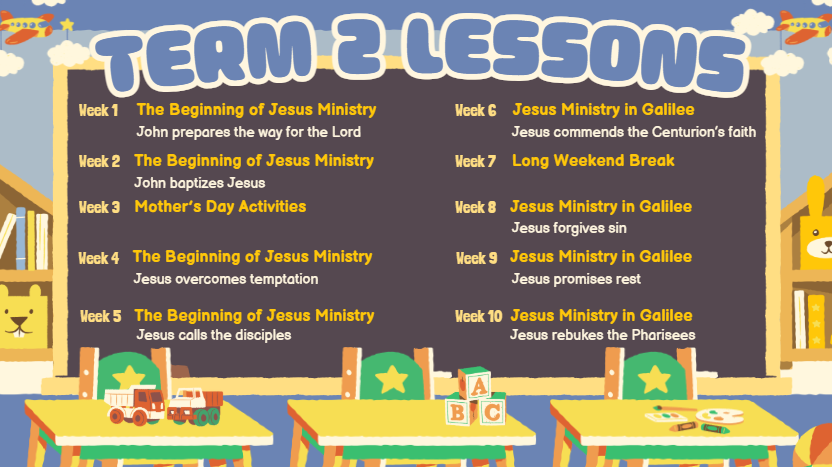
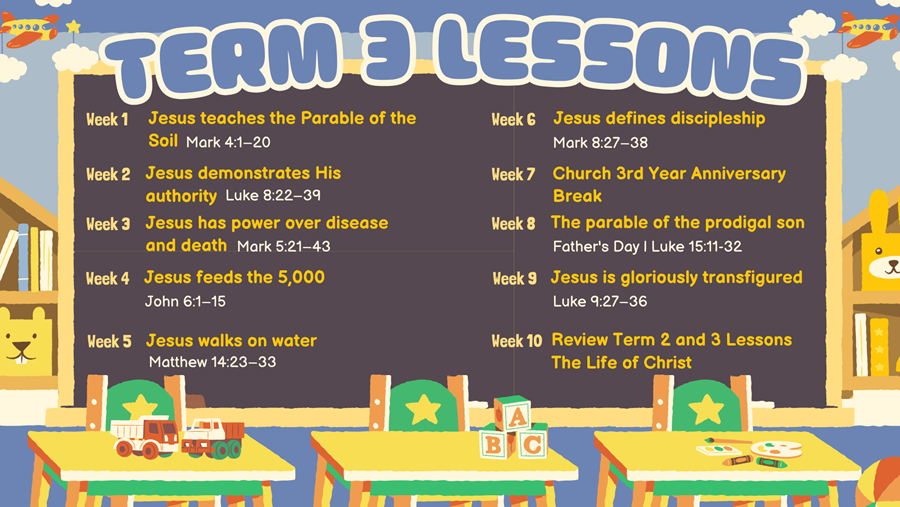
Update entrance info, social share image, Sunday School Term 3, anniversary announcement, and Food Bank Term 4 dates
Remove all references to the temporary 2026 Torquay Way entrance now
that the main Ballan Rd entrance has reopened; replace the og:image/
twitter:image share preview with a proper 1200x630 WynLife logo card;
swap the Sunday School lessons image and copy for Term 3; add the
WynLife 3rd Anniversary (30 Aug) announcement in place of the old
entrance notice; update the Food Bank flyer with Term 4 dates.

Claude-Session: https://claude.ai/code/session_01XZuSdtZm14ffq3G6qbHjXg

Changed region(s): [[0.0, 0.0, 1.0, 1.0], [0.0, 0.03, 0.0938, 0.1199]]

diff --git a/index.html b/index.html
@@ -26,15 +26,15 @@ permalink: /
   <meta property="og:url"         content="https://www.wynlife.com.au/">
   <meta property="og:title"       content="WynLife Church — Wyndham Vale, Melbourne">
   <meta property="og:description" content="A vibrant, multicultural Christian community in Melbourne's west. Join us Sundays at 10AM — 208 Ballan Rd, Wyndham Vale VIC 3024.">
-  <meta property="og:image"       content="https://www.wynlife.com.au/assets/about/head_pastor.JPG">
+  <meta property="og:image"       content="https://www.wynlife.com.au/assets/shared/social_share.png">
   <meta property="og:image:width" content="1200">
-  <meta property="og:image:height"content="800">
-  <meta property="og:image:alt"   content="Ps Jimm and Pynqi Gorgonia — WynLife Church">
+  <meta property="og:image:height"content="630">
+  <meta property="og:image:alt"   content="WynLife Church">
   <!-- Twitter / X card -->
   <meta name="twitter:card"        content="summary_large_image">
   <meta name="twitter:title"       content="WynLife Church — Wyndham Vale, Melbourne">
   <meta name="twitter:description" content="A vibrant, multicultural Christian community in Melbourne's west. Join us Sundays at 10AM — 208 Ballan Rd, Wyndham Vale VIC 3024.">
-  <meta name="twitter:image"       content="https://www.wynlife.com.au/assets/about/head_pastor.JPG">
+  <meta name="twitter:image"       content="https://www.wynlife.com.au/assets/shared/social_share.png">
   <!-- WhatsApp / iMessage description -->
   <meta name="description"         content="A vibrant, multicultural Christian community in Melbourne's west. Join us Sundays at 10AM — 208 Ballan Rd, Wyndham Vale VIC 3024.">
 </head>
@@ -226,11 +226,6 @@ permalink: /
     <div class="service-detail">WynLife Centre</div>
   </div>
   <div class="service-item">
-    <div class="service-label">2026 Entrance</div>
-    <div class="service-value">Via Torquay Way</div>
-    <div class="service-detail">Turn right at Rosedale Place</div>
-  </div>
-  <div class="service-item">
     <div class="service-label">Phone</div>
     <div class="service-value">+61 457 697 354</div>
     <div class="service-detail">info@wynlife.com.au</div>
@@ -326,7 +321,7 @@ permalink: /
       </div>
       <div>
         <img src="/assets/home/sunday_school_curriculum.PNG" alt="Generations of Grace Sunday School Curriculum" class="photo-contain" style="margin-bottom:16px;">
-        <img src="/assets/home/sunday_school_lessons.PNG" alt="Sunday School Term 1 Lessons" class="photo-contain">
+        <img src="/assets/home/sunday_school_lessons.PNG" alt="Sunday School Term 3 Lessons" class="photo-contain">
       </div>
     </div>
   </div>
@@ -386,11 +381,11 @@ permalink: /
         </div>
       </div>
       <div class="card">
-        <div class="card-img-contain"><img src="/assets/whats-on/entrance_update.png" alt="New Entrance"></div>
+        <div class="card-img-contain"><img src="/assets/whats-on/anniversary_3rd.png" alt="WynLife 3rd Anniversary"></div>
         <div class="card-body">
-          <div class="card-tag">&#128205; Important Notice</div>
-          <div class="card-title">2026 Entrance Update</div>
-          <div class="card-text">Our church entrance has changed for 2026. The old entrance is now closed. Please access via McGrath Road, then turn into Torquay Way and turn right at Rosedale Place to reach the temporary entrance.</div>
+          <div class="card-tag">&#127881; Save the Date</div>
+          <div class="card-title">WynLife 3rd Anniversary</div>
+          <div class="card-text">Join us on Sunday, 30th August as we celebrate three years of WynLife Church — Victory in Christ!</div>
           <a href="/whats-on/#announcements" class="card-link">Learn more &rarr;</a>
         </div>
       </div>

diff --git a/gatherings.html b/gatherings.html
@@ -26,15 +26,15 @@ permalink: /gatherings/
   <meta property="og:url"         content="https://www.wynlife.com.au/gatherings/">
   <meta property="og:title"       content="Gatherings — WynLife Church">
   <meta property="og:description" content="Join us for Sunday services, Wednesday Night Prayer, Life Groups, Men's and Women's gatherings. Everyone is welcome at WynLife Church.">
-  <meta property="og:image"       content="https://www.wynlife.com.au/assets/about/head_pastor.JPG">
+  <meta property="og:image"       content="https://www.wynlife.com.au/assets/shared/social_share.png">
   <meta property="og:image:width" content="1200">
-  <meta property="og:image:height"content="800">
-  <meta property="og:image:alt"   content="Ps Jimm and Pynqi Gorgonia — WynLife Church">
+  <meta property="og:image:height"content="630">
+  <meta property="og:image:alt"   content="WynLife Church">
   <!-- Twitter / X card -->
   <meta name="twitter:card"        content="summary_large_image">
   <meta name="twitter:title"       content="Gatherings — WynLife Church">
   <meta name="twitter:description" content="Join us for Sunday services, Wednesday Night Prayer, Life Groups, Men's and Women's gatherings. Everyone is welcome at WynLife Church.">
-  <meta name="twitter:image"       content="https://www.wynlife.com.au/assets/about/head_pastor.JPG">
+  <meta name="twitter:image"       content="https://www.wynlife.com.au/assets/shared/social_share.png">
   <!-- WhatsApp / iMessage description -->
   <meta name="description"         content="Join us for Sunday services, Wednesday Night Prayer, Life Groups, Men's and Women's gatherings. Everyone is welcome at WynLife Church.">
 </head>
@@ -237,10 +237,6 @@ permalink: /gatherings/
             <span class="info-icon">&#128205;</span>
             <div><div class="info-label">Location</div><div class="info-value">208 Ballan Rd, Wyndham Vale VIC 3024</div></div>
           </div>
-          <div class="info-row">
-            <span class="info-icon">&#128663;</span>
-            <div><div class="info-label">2026 Entrance</div><div class="info-value">Via McGrath Rd &rarr; Torquay Way &rarr; turn right at Rosedale Pl</div></div>
-          </div>
         </div>
         <a href="/pray/" class="btn btn-primary mt-32" style="display:inline-block;">Plan My Visit</a>
       </div>
@@ -355,15 +351,15 @@ permalink: /gatherings/
       </div>
     </div>
 
-    <!-- Term 1 Lessons -->
+    <!-- Term 3 Lessons -->
     <div class="two-col img-right mt-48" style="align-items:center;padding-top:48px;border-top:1px solid rgba(0,0,0,0.08);">
       <div>
-        <img src="/assets/gatherings/sunday_school_lessons.PNG" alt="Sunday School Term 1 Lessons" class="photo-contain">
+        <img src="/assets/gatherings/sunday_school_lessons.PNG" alt="Sunday School Term 3 Lessons" class="photo-contain">
       </div>
       <div>
-        <h3 style="font-family:'Merriweather',serif;font-size:1.35rem;color:var(--navy);margin-bottom:14px;">Term 2 Lessons</h3>
+        <h3 style="font-family:'Merriweather',serif;font-size:1.35rem;color:var(--navy);margin-bottom:14px;">Term 3 Lessons</h3>
         <p style="font-size:1rem;color:var(--gray);line-height:1.75;margin-bottom:20px;">
-          This term our children are working through various topics relating to The Beginning of Jesus' Ministry in Jerusalem and throughout Galilee.
+          This term our children are working through the life and ministry of Jesus — from His parables and miracles through to His teaching on discipleship and the cost of following Him.
         </p>
         <div class="info-box">
           <h3>Sunday School Details</h3>

diff --git a/whats-on.html b/whats-on.html
@@ -26,15 +26,15 @@ permalink: /whats-on/
   <meta property="og:url"         content="https://www.wynlife.com.au/whats-on/">
   <meta property="og:title"       content="What's On — WynLife Church">
   <meta property="og:description" content="Stay up to date with WynLife events — Food Bank, Fellowship Lunch, Bible Reading, Men's and Women's Book Studies, and more.">
-  <meta property="og:image"       content="https://www.wynlife.com.au/assets/about/head_pastor.JPG">
+  <meta property="og:image"       content="https://www.wynlife.com.au/assets/shared/social_share.png">
   <meta property="og:image:width" content="1200">
-  <meta property="og:image:height"content="800">
-  <meta property="og:image:alt"   content="Ps Jimm and Pynqi Gorgonia — WynLife Church">
+  <meta property="og:image:height"content="630">
+  <meta property="og:image:alt"   content="WynLife Church">
   <!-- Twitter / X card -->
   <meta name="twitter:card"        content="summary_large_image">
   <meta name="twitter:title"       content="What's On — WynLife Church">
   <meta name="twitter:description" content="Stay up to date with WynLife events — Food Bank, Fellowship Lunch, Bible Reading, Men's and Women's Book Studies, and more.">
-  <meta name="twitter:image"       content="https://www.wynlife.com.au/assets/about/head_pastor.JPG">
+  <meta name="twitter:image"       content="https://www.wynlife.com.au/assets/shared/social_share.png">
   <!-- WhatsApp / iMessage description -->
   <meta name="description"         content="Stay up to date with WynLife events — Food Bank, Fellowship Lunch, Bible Reading, Men's and Women's Book Studies, and more.">
 </head>
@@ -375,12 +375,13 @@ permalink: /whats-on/
 
     <div class="two-col mt-32" style="align-items:start;">
       <div>
-        <div style="font-size:0.72rem;font-weight:700;letter-spacing:0.12em;text-transform:uppercase;color:var(--blue);margin-bottom:8px;">&#128205; Important Notice</div>
-        <h3 style="font-family:'Merriweather',serif;font-size:1.5rem;color:var(--navy);margin-bottom:14px;line-height:1.3;">2026 Entrance Update</h3>
-        <p style="font-size:1rem;color:var(--gray);line-height:1.7;max-width:540px;">Our church entrance has changed for 2026. The old entrance is now closed. Please access via McGrath Road, then turn into Torquay Way and turn right at Rosedale Place to reach the temporary entrance.</p>
+        <div style="font-size:0.72rem;font-weight:700;letter-spacing:0.12em;text-transform:uppercase;color:var(--blue);margin-bottom:8px;">&#127881; Save the Date</div>
+        <h3 style="font-family:'Merriweather',serif;font-size:1.5rem;color:var(--navy);margin-bottom:14px;line-height:1.3;">WynLife 3rd Anniversary — Victory in Christ!</h3>
+        <p style="font-size:1rem;color:var(--gray);line-height:1.7;max-width:540px;">Join us as we celebrate three years of WynLife Church and all that God has done in our community. Come and celebrate with us as we look back with gratitude and look forward in faith.</p>
+        <p style="font-size:0.92rem;color:var(--gray);line-height:1.7;margin-top:12px;"><strong>Date:</strong> Sunday, 30th August</p>
       </div>
       <div>
-        <img src="/assets/whats-on/entrance_update.png" alt="2026 New Entrance Map" class="photo-contain">
+        <img src="/assets/whats-on/anniversary_3rd.png" alt="WynLife 3rd Anniversary — Save the Date 30th August" class="photo-contain">
       </div>
     </div>
   </div>

diff --git a/next-steps.html b/next-steps.html
@@ -26,15 +26,15 @@ permalink: /next-steps/
   <meta property="og:url"         content="https://www.wynlife.com.au/next-steps/">
   <meta property="og:title"       content="Next Steps — WynLife Church">
   <meta property="og:description" content="Wherever you are in your faith journey, there's a next step for you. Get to know Jesus, become like Him, live like Him, and share Him.">
-  <meta property="og:image"       content="https://www.wynlife.com.au/assets/about/head_pastor.JPG">
+  <meta property="og:image"       content="https://www.wynlife.com.au/assets/shared/social_share.png">
   <meta property="og:image:width" content="1200">
-  <meta property="og:image:height"content="800">
-  <meta property="og:image:alt"   content="Ps Jimm and Pynqi Gorgonia — WynLife Church">
+  <meta property="og:image:height"content="630">
+  <meta property="og:image:alt"   content="WynLife Church">
   <!-- Twitter / X card -->
   <meta name="twitter:card"        content="summary_large_image">
   <meta name="twitter:title"       content="Next Steps — WynLife Church">
   <meta name="twitter:description" content="Wherever you are in your faith journey, there's a next step for you. Get to know Jesus, become like Him, live like Him, and share Him.">
-  <meta name="twitter:image"       content="https://www.wynlife.com.au/assets/about/head_pastor.JPG">
+  <meta name="twitter:image"       content="https://www.wynlife.com.au/assets/shared/social_share.png">
   <!-- WhatsApp / iMessage description -->
   <meta name="description"         content="Wherever you are in your faith journey, there's a next step for you. Get to know Jesus, become like Him, live like Him, and share Him.">
 </head>

diff --git a/pray.html b/pray.html
@@ -115,15 +115,15 @@ permalink: /pray/
   <meta property="og:url"         content="https://www.wynlife.com.au/pray/">
   <meta property="og:title"       content="Let Us Pray For You — WynLife Church">
   <meta property="og:description" content="Send us a message or a prayer request. Our team personally reads every message. We would love to hear from you and pray with you.">
-  <meta property="og:image"       content="https://www.wynlife.com.au/assets/about/head_pastor.JPG">
+  <meta property="og:image"       content="https://www.wynlife.com.au/assets/shared/social_share.png">
   <meta property="og:image:width" content="1200">
-  <meta property="og:image:height"content="800">
-  <meta property="og:image:alt"   content="Ps Jimm and Pynqi Gorgonia — WynLife Church">
+  <meta property="og:image:height"content="630">
+  <meta property="og:image:alt"   content="WynLife Church">
   <!-- Twitter / X card -->
   <meta name="twitter:card"        content="summary_large_image">
   <meta name="twitter:title"       content="Let Us Pray For You — WynLife Church">
   <meta name="twitter:description" content="Send us a message or a prayer request. Our team personally reads every message. We would love to hear from you and pray with you.">
-  <meta name="twitter:image"       content="https://www.wynlife.com.au/assets/about/head_pastor.JPG">
+  <meta name="twitter:image"       content="https://www.wynlife.com.au/assets/shared/social_share.png">
   <!-- WhatsApp / iMessage description -->
   <meta name="description"         content="Send us a message or a prayer request. Our team personally reads every message. We would love to hear from you and pray with you.">
 </head>

diff --git a/about.html b/about.html
@@ -75,15 +75,15 @@ permalink: /about/
   <meta property="og:url"         content="https://www.wynlife.com.au/about/">
   <meta property="og:title"       content="About — WynLife Church">
   <meta property="og:description" content="Learn about WynLife Church, our Bible beliefs, and the leadership team pastored by Ps Jimm and Pynqi Gorgonia in Wyndham Vale, Melbourne.">
-  <meta property="og:image"       content="https://www.wynlife.com.au/assets/about/head_pastor.JPG">
+  <meta property="og:image"       content="https://www.wynlife.com.au/assets/shared/social_share.png">
   <meta property="og:image:width" content="1200">
-  <meta property="og:image:height"content="800">
-  <meta property="og:image:alt"   content="Ps Jimm and Pynqi Gorgonia — WynLife Church">
+  <meta property="og:image:height"content="630">
+  <meta property="og:image:alt"   content="WynLife Church">
   <!-- Twitter / X card -->
   <meta name="twitter:card"        content="summary_large_image">
   <meta name="twitter:title"       content="About — WynLife Church">
   <meta name="twitter:description" content="Learn about WynLife Church, our Bible beliefs, and the leadership team pastored by Ps Jimm and Pynqi Gorgonia in Wyndham Vale, Melbourne.">
-  <meta name="twitter:image"       content="https://www.wynlife.com.au/assets/about/head_pastor.JPG">
+  <meta name="twitter:image"       content="https://www.wynlife.com.au/assets/shared/social_share.png">
   <!-- WhatsApp / iMessage description -->
   <meta name="description"         content="Learn about WynLife Church, our Bible beliefs, and the leadership team pastored by Ps Jimm and Pynqi Gorgonia in Wyndham Vale, Melbourne.">
 </head>

diff --git a/church-online.html b/church-online.html
@@ -75,15 +75,15 @@ permalink: /church-online/
   <meta property="og:url"         content="https://www.wynlife.com.au/church-online/">
   <meta property="og:title"       content="Church Online — WynLife Church">
   <meta property="og:description" content="Watch WynLife Church live every Sunday at 10AM on YouTube, or catch up on past messages any time.">
-  <meta property="og:image"       content="https://www.wynlife.com.au/assets/about/head_pastor.JPG">
+  <meta property="og:image"       content="https://www.wynlife.com.au/assets/shared/social_share.png">
   <meta property="og:image:width" content="1200">
-  <meta property="og:image:height"content="800">
-  <meta property="og:image:alt"   content="Ps Jimm and Pynqi Gorgonia — WynLife Church">
+  <meta property="og:image:height"content="630">
+  <meta property="og:image:alt"   content="WynLife Church">
   <!-- Twitter / X card -->
   <meta name="twitter:card"        content="summary_large_image">
   <meta name="twitter:title"       content="Church Online — WynLife Church">
   <meta name="twitter:description" content="Watch WynLife Church live every Sunday at 10AM on YouTube, or catch up on past messages any time.">
-  <meta name="twitter:image"       content="https://www.wynlife.com.au/assets/about/head_pastor.JPG">
+  <meta name="twitter:image"       content="https://www.wynlife.com.au/assets/shared/social_share.png">
   <!-- WhatsApp / iMessage description -->
   <meta name="description"         content="Watch WynLife Church live every Sunday at 10AM on YouTube, or catch up on past messages any time.">
 </head>
